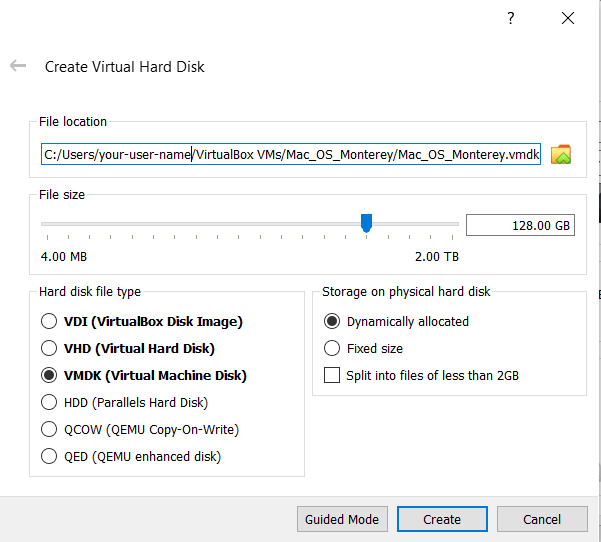
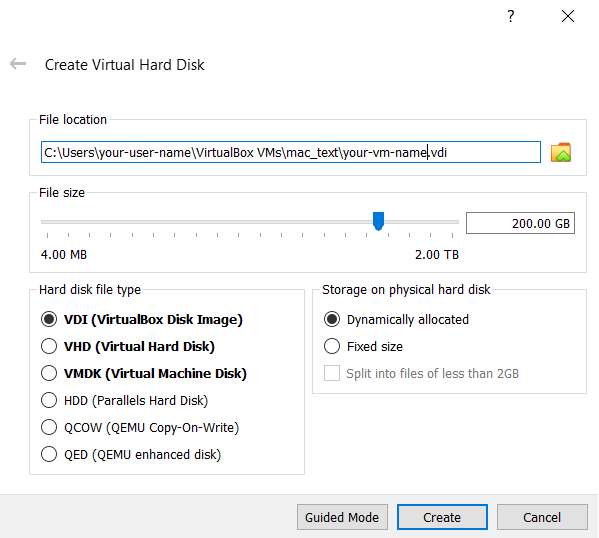
change to VDI

diff --git a/README.md b/README.md
@@ -17,11 +17,11 @@ Setup Mac OS within Windows 10 using VirtualBox
     
     - ![click **Create**](imgs/2.png)
     
-    Make sure to note the **Name** you input, which will be needed later on.
+    Make sure to note the **Name** you input, which will be needed later on. We recommend to allocate at least half of the total Memory size for the VM.
 
     - ![set **disk size**](imgs/3.png)
 
-    Note we recommend to set at least 128GB hard disk size for the virtual macOS.
+    Note we recommend to set at least 200GB hard disk size for the virtual macOS.
 
     - The initial virtual machine (by the **Name** you input above) should be setup by now, and we can continue with more **Settings**:
         - ![**Settings**](imgs/4.png)
